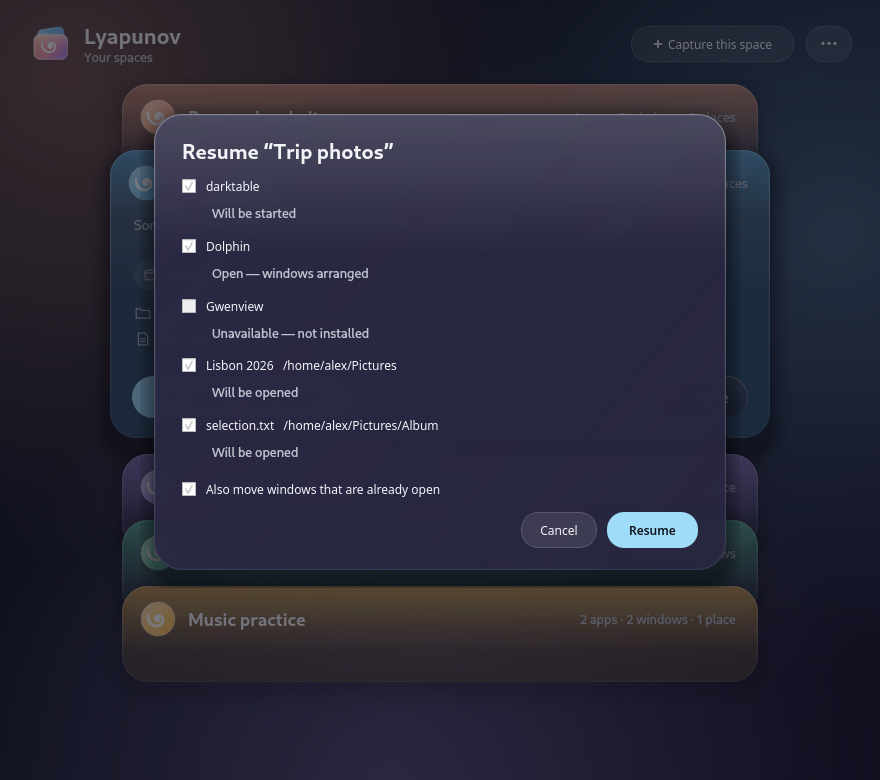
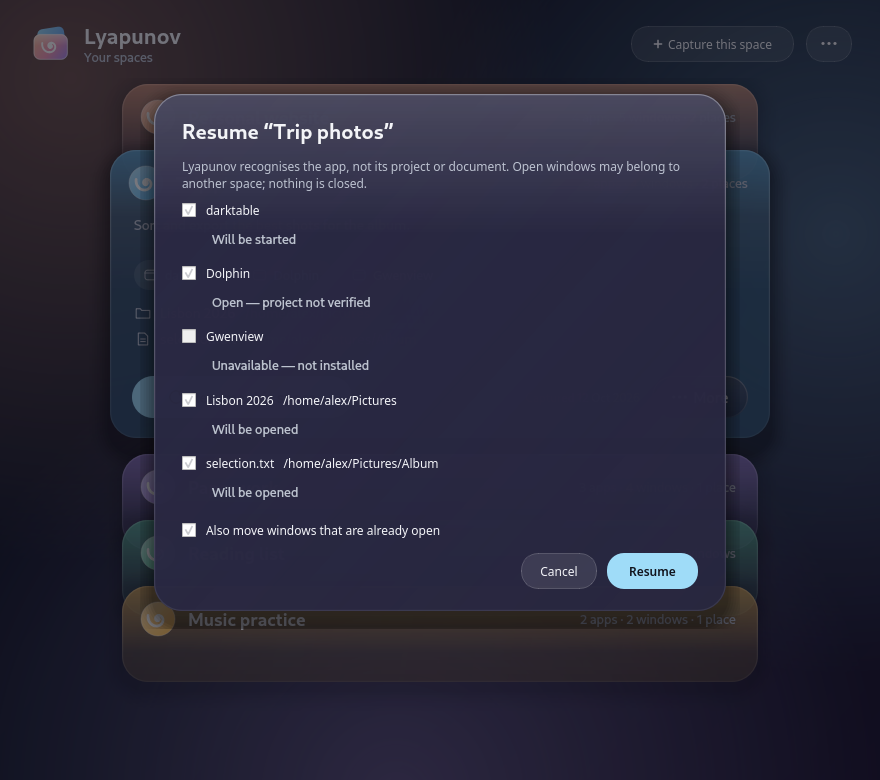
Leave existing app windows untouched by default

diff --git a/src/resume.rs b/src/resume.rs
@@ -2,9 +2,9 @@
 //! happened.
 //!
 //! The plan lists one step per application and per folder or document. The
-//! user can leave any step out. Applications already open are reused, never
-//! started a second time; an application is started only when none of its
-//! windows is open. Windows are then moved to their saved places, on a
+//! user can leave any step out. Applications already open are recognised by
+//! app identity only; their project or document is not known. Windows are
+//! moved only when the user has opted in, on a
 //! screen that exists. The report distinguishes a window that was found, an
 //! application that was started, and an item that is unavailable. A failure
 //! never stops the other steps.
@@ -179,7 +179,10 @@ pub fn plan(card: &Card, snap: &Snapshot, index: &AppIndex, backend: &dyn Backen
     for (i, app) in card.apps.iter().enumerate() {
         let open = snap.windows.iter().filter(|w| belongs(app, w, index)).count();
         let (kind, reason) = if open > 0 {
-            (StepKind::Running, None)
+            (
+                StepKind::Running,
+                Some("application identity only; project or document not verified".into()),
+            )
         } else {
             match installed(app, index) {
                 Ok(()) => (StepKind::Launch, None),
@@ -383,6 +386,8 @@ pub fn execute(
                 o.notes.extend(step.reason.clone());
             }
             StepKind::Running => {
+                o.notes
+                    .push("project or document in the open window was not verified".into());
                 o.status = if opts.arrange_open_windows && caps.geometry && !app.windows.is_empty() {
                     Status::WindowFound
                 } else {
@@ -821,6 +826,10 @@ mod tests {
         let kinds: Vec<_> = p.steps.iter().map(|s| s.kind).collect();
         assert_eq!(kinds, [StepKind::Running, StepKind::Unavailable, StepKind::Unavailable]);
         assert_eq!(p.steps[0].open, 2);
+        assert_eq!(
+            p.steps[0].reason.as_deref(),
+            Some("application identity only; project or document not verified")
+        );
         assert_eq!(p.steps[1].reason.as_deref(), Some("not installed"));
         assert_eq!(p.steps[2].reason.as_deref(), Some("not found"));
     }
@@ -829,7 +838,9 @@ mod tests {
     fn resume_arranges_found_windows_and_reports_the_rest() {
         let mut f = fake();
         let c = card();
-        let r = execute(&c, &Options::for_card(&c), &mut f, &AppIndex::default(), |_| {}).unwrap();
+        let mut o = Options::for_card(&c);
+        o.arrange_open_windows = true;
+        let r = execute(&c, &o, &mut f, &AppIndex::default(), |_| {}).unwrap();
         assert_eq!(f.placed.len(), 2);
         assert_eq!(f.placed[0].rect, Some(Rect::new(0, 0, 500, 400)));
         assert_eq!(f.placed[1].rect, Some(Rect::new(600, 0, 500, 400)));
@@ -847,11 +858,15 @@ mod tests {
         let mut f = fake();
         let c = card();
         let mut o = Options::for_card(&c);
-        o.arrange_open_windows = false;
+        assert!(
+            !o.arrange_open_windows,
+            "a new card must not move an unrelated project's window"
+        );
         o.skip = vec!["place:0".into()];
         let r = execute(&c, &o, &mut f, &AppIndex::default(), |_| {}).unwrap();
         assert!(f.placed.is_empty(), "open windows stay where they are");
         assert_eq!(r.outcomes[0].status, Status::LeftOpen);
+        assert!(r.outcomes[0].notes.iter().any(|n| n.contains("not verified")));
         assert_eq!(r.outcomes[2].status, Status::Skipped);
         let mut f = fake();
         let mut o = Options::for_card(&c);

diff --git a/desktop/i18n.h b/desktop/i18n.h
@@ -70,7 +70,9 @@ inline QString L(const QString &english) {
         {"Move windows that are already open", "Déplacer les fenêtres déjà ouvertes"}, {"Save", "Enregistrer"},
         // Resume
         {"Resume “%1”", "Reprendre « %1 »"}, {"Resume", "Reprendre"}, {"Will be started", "Sera lancée"},
-        {"Open — windows arranged", "Ouverte — fenêtres replacées"}, {"Open", "Ouverte"}, {"Will be opened", "Sera ouvert"},
+        {"Open — project not verified", "Ouverte — projet non vérifié"}, {"Open", "Ouverte"}, {"Will be opened", "Sera ouvert"},
+        {"Lyapunov recognises the app, not its project or document. Open windows may belong to another space; nothing is closed.",
+         "Lyapunov reconnaît l'application, pas son projet ni son document. Les fenêtres ouvertes peuvent appartenir à un autre espace ; rien n'est fermé."},
         {"Unavailable", "Indisponible"}, {"not installed", "non installée"}, {"not found", "introuvable"},
         {"runs in a terminal", "s'exécute dans un terminal"},
         {"Lyapunov cannot start this application (no menu entry)", "Lyapunov ne peut pas lancer cette application (pas d'entrée de menu)"},
@@ -88,6 +90,7 @@ inline QString L(const QString &english) {
         {"started, but no window appeared in time to be arranged", "lancée, mais aucune fenêtre n'est apparue à temps pour être replacée"},
         {"windows are not arranged on this desktop", "les fenêtres ne sont pas replacées sur ce bureau"},
         {"a window could not be moved", "une fenêtre n'a pas pu être déplacée"},
+        {"project or document in the open window was not verified", "le projet ou document de la fenêtre ouverte n'a pas été vérifié"},
         {"window closed", "fenêtre fermée"}, {"this window cannot be moved", "cette fenêtre ne peut pas être déplacée"},
         // Delete and problems
         {"Delete “%1”?", "Supprimer « %1 » ?"},

diff --git a/desktop/main.cpp b/desktop/main.cpp
@@ -443,7 +443,9 @@ protected:
 
     void startResume(int i) {
         const CardView c = stack->all()[i];
-        if (!c.ask) { runResume(c, {}, c.arrange); return; }
+        // Moving an already open window can move another project's work.
+        // Always show the plan when that option is enabled.
+        if (!c.ask && !c.arrange) { runResume(c, {}, false); return; }
         const core::Result r = core::run({"plan", c.id});
         if (!r.ok()) { fail(r.error); return; }
         const QJsonObject plan = r.obj();
@@ -452,13 +454,14 @@ protected:
         auto steps = std::make_shared<QVector<Step>>();
         if (!plan["limitation"].toString().isEmpty())
             s->body->addWidget(label(L("Windows are not arranged on this desktop: applications, folders and documents still reopen."), "hint"));
+        s->body->addWidget(label(L("Lyapunov recognises the app, not its project or document. Open windows may belong to another space; nothing is closed."), "hint"));
         const bool canArrange = plan["capabilities"].toObject()["geometry"].toBool();
         for (const auto &v : plan["steps"].toArray()) {
             const QJsonObject st = v.toObject();
             const QString kind = st["kind"].toString();
             QString what;
             if (kind == "launch") what = L("Will be started");
-            else if (kind == "running") what = canArrange && st["windows"].toInt() > 0 ? L("Open — windows arranged") : L("Open");
+            else if (kind == "running") what = L("Open — project not verified");
             else if (kind == "open") what = L("Will be opened");
             else what = L("Unavailable") + " — " + translateNote(st["reason"].toString());
             QString title = st["name"].toString();

diff --git a/desktop/cardstack.h b/desktop/cardstack.h
@@ -14,7 +14,7 @@ struct CardView {
     QStringList apps;
     int windows = 0;
     QVector<QPair<QString, bool>> places; // path, is a folder
-    bool ask = true, arrange = true;
+    bool ask = true, arrange = false;
     QJsonObject raw;
 
     static CardView from(const QJsonObject &o) {
@@ -28,7 +28,7 @@ struct CardView {
         for (const auto &p : o["places"].toArray())
             c.places.append({p.toObject()["path"].toString(), p.toObject()["kind"].toString() == "folder"});
         const QJsonObject r = o["resume"].toObject();
-        c.ask = r["ask"].toBool(true); c.arrange = r["arrange_open_windows"].toBool(true);
+        c.ask = r["ask"].toBool(true); c.arrange = r["arrange_open_windows"].toBool(false);
         return c;
     }
     QString summary() const {

diff --git a/src/card.rs b/src/card.rs
@@ -172,8 +172,9 @@ pub struct ResumePrefs {
     /// Show the planned actions before resuming.
     #[serde(default = "yes")]
     pub ask: bool,
-    /// Move windows that are already open to their saved places.
-    #[serde(default = "yes")]
+    /// Opt in to moving windows that are already open. App identity alone
+    /// cannot establish which project or document an existing window holds.
+    #[serde(default)]
     pub arrange_open_windows: bool,
 }
 
@@ -185,7 +186,7 @@ impl Default for ResumePrefs {
     fn default() -> Self {
         ResumePrefs {
             ask: true,
-            arrange_open_windows: true,
+            arrange_open_windows: false,
         }
     }
 }

diff --git a/tests/e2e/session_check.py b/tests/e2e/session_check.py
@@ -114,6 +114,9 @@ target = {"x": area["x"] + 61, "y": area["y"] + 73, "width": 520, "height": 340}
 
 def set_slot(**fields):
     c = run("show", cid)
+    # This test explicitly checks arranging an existing window. New cards leave
+    # open windows in place by default because their project is unknown.
+    c["resume"]["arrange_open_windows"] = True
     for a in c["apps"]:
         if a.get("desktop") == APP_ID:
             a["windows"][0].update(fields)

diff --git a/README.md b/README.md
@@ -24,10 +24,11 @@
 </p>
 
 A **card** is one activity: "Personal website", "Trip photos", "Paperwork". It
-keeps the applications and windows that belong to it, and the folders and
-documents you chose to add. **Resuming** a card reopens what is missing,
-reuses what is already open, and puts each window back on its screen,
-desktop and place, as far as your desktop allows. Before anything happens,
+keeps application identities and window layouts, plus the folders and
+documents you chose to add. **Resuming** starts missing applications, leaves
+open ones running, and arranges newly opened windows as far as your desktop
+allows. Moving windows that were already open is an explicit option: Lyapunov
+cannot tell which project or document they contain. Before anything happens,
 Lyapunov shows what it will do; afterwards it says exactly what it did:
 *window found*, *application started* or *unavailable*.
 
@@ -45,7 +46,7 @@ and what is not is listed in [Compatibility](#compatibility).
 <table>
 <tr>
 <td width="50%"><img src="docs/media/capture.png" alt="The Capture this space sheet: a name field, seven colour swatches with the chosen colour's name, the open applications with their window titles and a check box each, and buttons to add folders and documents."></td>
-<td width="50%"><img src="docs/media/plan.png" alt="In dark mode, the Resume Trip photos sheet lists darktable (will be started), Dolphin (open, windows arranged), Gwenview (unavailable, not installed) and two places to open, each with a check box."></td>
+<td width="50%"><img src="docs/media/plan.png" alt="In dark mode, the Resume Trip photos sheet warns that an open application's project is not verified, then lists darktable (will be started), Dolphin (open), Gwenview (unavailable) and two places to open, each with a check box."></td>
 </tr>
 <tr>
 <td><b>1. Capture.</b> Name the activity and pick a colour. Lyapunov lists the
@@ -54,7 +55,8 @@ and documents. Nothing is moved or closed. Window titles help you choose and
 are never saved.</td>
 <td><b>2. Resume.</b> Pick the card, press <b>Resume this space</b> (or Enter).
 The preview shows what will start, what is already open and what is missing;
-leave out any step. Applications already open are reused, never started twice.</td>
+leave out any step. An open application stays open, but its project is not
+identified or switched.</td>
 </tr>
 <tr>
 <td><img src="docs/media/report.png" alt="The report after resuming Trip photos: darktable started with 1 of 1 window placed, Dolphin window found with 1 of 2 windows placed and a note that 1 saved window was not reopened, Gwenview unavailable because it is not installed, and two places opened."></td>
@@ -62,8 +64,8 @@ leave out any step. Applications already open are reused, never started twice.</
 </tr>
 <tr>
 <td><b>3. Know what happened.</b> Each application and place gets an exact
-result. A screen that is no longer connected is reported, and its windows land
-on one that is.</td>
+result. When Lyapunov arranges a window from a screen that is no longer
+connected, it reports the missing screen and places that window on one that is.</td>
 <td><b>Light and dark, English and French.</b> The stack follows the system's
 colour scheme and language. Keyboard: arrows to move, Enter to resume, Delete,
 F2 to edit, the menu key for more.</td>
@@ -123,10 +125,14 @@ release: [docs/COMPATIBILITY.md](docs/COMPATIBILITY.md).
 
 ## What a card does not restore
 
-Text you have not saved, the inside of an application (its tabs, history or
-selection), a website login, a password or a disconnected device. Lyapunov
-reopens applications, folders and documents and arranges windows; it never
-claims more. Browser tabs may come later, through an optional extension.
+Text you have not saved, the inside of an application (its project, tabs,
+history or selection), a website login, a password or a disconnected device.
+A card is a saved recipe, not a paused virtual desktop: it does not close,
+freeze or autosave applications. If VS Code is open on project A, resuming a
+card for project B does not switch that window to B or launch a second instance.
+Lyapunov reopens applications, folders and documents and arranges windows; it
+never claims more. Per-application project restoration may come later through
+explicit integrations. Browser tabs may come later, through an optional extension.
 
 ## Privacy
 

diff --git a/docs/TESTING.md b/docs/TESTING.md
@@ -9,7 +9,7 @@
 | `cargo test` | Card validation, storage (atomic writes, corrupt and newer cards, permissions, paths), desktop entries and `Exec` splitting, application recognition, refused places, geometry fitting, desktop matching, plan and resume with a fake backend, backend parsers and command builders | Linux, Windows, Rust 1.85 |
 | `ctest --test-dir build` | The card stack offscreen: layout, every band visible, hit testing, keyboard, Resume, More, Delete, accessible name | Linux, Windows |
 | `lyapunov-desktop --smoke-test` | The window starts with the installed Qt | every package |
-| `scripts/test-kwin-isolated.sh` | Capture and resume end to end in a private nested KWin (Wayland) with its own D-Bus | Linux with KWin; CI in an Arch container |
+| `scripts/test-kwin-isolated.sh` | Capture and resume end to end in a private nested KWin (Wayland) with its own D-Bus | Linux host with KWin; local pre-release gate |
 | `scripts/test-gnome-container.sh` | The same on a headless GNOME Shell with the extension; other callers and untrusted copies of `lyapunov` are refused | Fedora container |
 | `scripts/test-sessions-container.sh` | The same under Openbox, Xfwm4, i3 and headless sway | Arch container |
 | `scripts/test-packages-container.sh` | `.deb`, `.rpm` and Arch packages built in their distribution, installed, used and removed in clean containers | Docker or Podman |
@@ -21,6 +21,14 @@ through the card, closes the application and lets Lyapunov start it again,
 simulates an unplugged screen, a second desktop, maximising and restoring, and
 deletes the card without closing anything. Each step's JSON is kept as
 evidence.
+
+KWin's virtual compositor passes on an Arch Linux host but crashes before
+registering on D-Bus inside the current Arch container on both the local
+Docker engine and the GitHub runner. The KWin container job is therefore not
+part of CI; `scripts/test-kwin-container.sh` remains available for diagnosing
+that environment. Run `scripts/test-kwin-isolated.sh` on a Linux host with
+KWin before a release. This is a CI coverage gap, not evidence that KWin is
+broken on the desktop.
 
 ## By hand, before a release
 

diff --git a/docs/USER_GUIDE.md b/docs/USER_GUIDE.md
@@ -35,9 +35,9 @@ then **Resume this space** (or Enter, or a double-click on the open card).
 The preview lists every step:
 
 - **Will be started**: the application is not open.
-- **Open — windows arranged**: it is open; its windows will be moved to their
-  saved places (untick *Also move windows that are already open* to leave
-  them).
+- **Open — project not verified**: the application is open, but Lyapunov cannot
+  identify its project or document. It leaves existing windows in place by
+  default. You may opt in to moving them, after reviewing the preview.
 - **Will be opened**: a folder or document.
 - **Unavailable**: not installed, not found, or not something a card opens.
 
@@ -47,7 +47,15 @@ Untick any step, then **Resume**. Lyapunov reports each step:
 gets it out of the way.
 
 To skip the preview for a card, open **More → Edit…** and untick *Show what
-will happen before resuming*.
+will happen before resuming*. The preview still appears if moving already open
+windows is enabled.
+
+A card is a saved recipe, not a paused virtual desktop. Lyapunov never closes,
+freezes, or autosaves applications. For example, a VS Code window open on
+project A stays open on A when you resume a card for project B; Lyapunov does
+not yet know how to distinguish those projects or launch B beside A. Add the
+project folder to the card to open it explicitly, but check which application
+your desktop uses to open that folder.
 
 ## Keep cards up to date
 
@@ -61,8 +69,9 @@ will happen before resuming*.
 
 ## Several screens and desktops
 
-Windows return to the screen and virtual desktop they were on. If a screen is
-no longer connected, its windows move to the primary screen at the same
+Windows that Lyapunov arranges return to the screen and virtual desktop they
+were on. If a screen is no longer connected, those windows move to the primary
+screen at the same
 relative place and size. If a desktop no longer exists, windows stay on the
 current one, and the report says so. On sway, i3 and Hyprland, a missing
 workspace is created.

diff --git a/docs/ARCHITECTURE.md b/docs/ARCHITECTURE.md
@@ -120,7 +120,9 @@ error rather than a silent fallback.
 3. Wait until every started application shows a window (20 seconds at most),
    then a little longer: many applications resize themselves after appearing.
 4. Match saved windows to open ones, new windows first, in stacking order.
-   Windows already open are moved only if the user allowed it.
+   Windows already open are moved only if the user explicitly opted in; new
+   cards default to leaving them in place because app identity does not prove
+   which project or document each window contains.
 5. Fit each window onto a present screen (proportionally when its screen is
    gone or resized, always fully visible) and onto the same desktop (by
    identifier, then name, then position).

diff --git a/docs/COMPATIBILITY.md b/docs/COMPATIBILITY.md
@@ -38,6 +38,10 @@ Built in CI on every change; see the latest run of the
 
 ## Not verified
 
+- KWin end-to-end in GitHub CI: the Arch container crashes before the
+  compositor registers on D-Bus. The nested host test above passes; see
+  [Testing](TESTING.md).
+
 - Interaction in a real session after capture: the sheet, drag and drop of
   folders, the global shortcut.
 - Windows 10 and 11 desktops, SmartScreen on a fresh machine.
